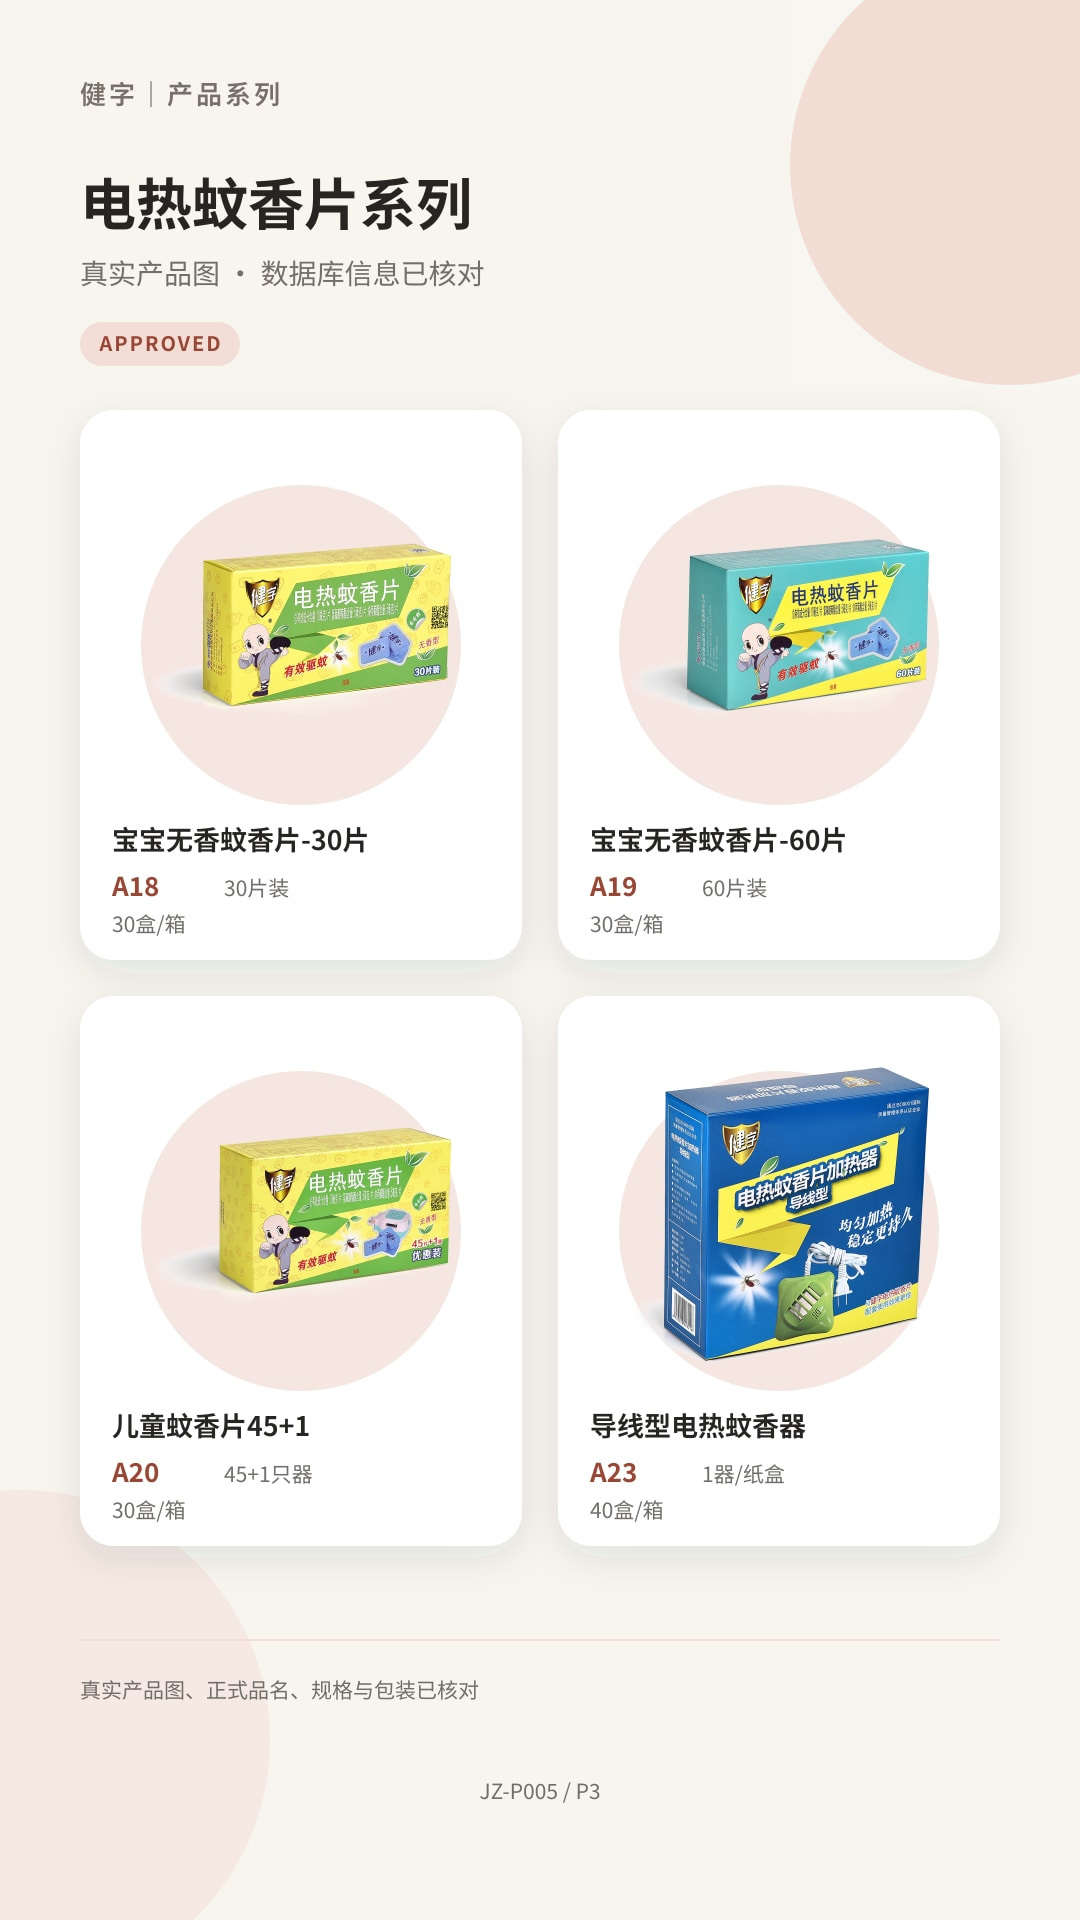
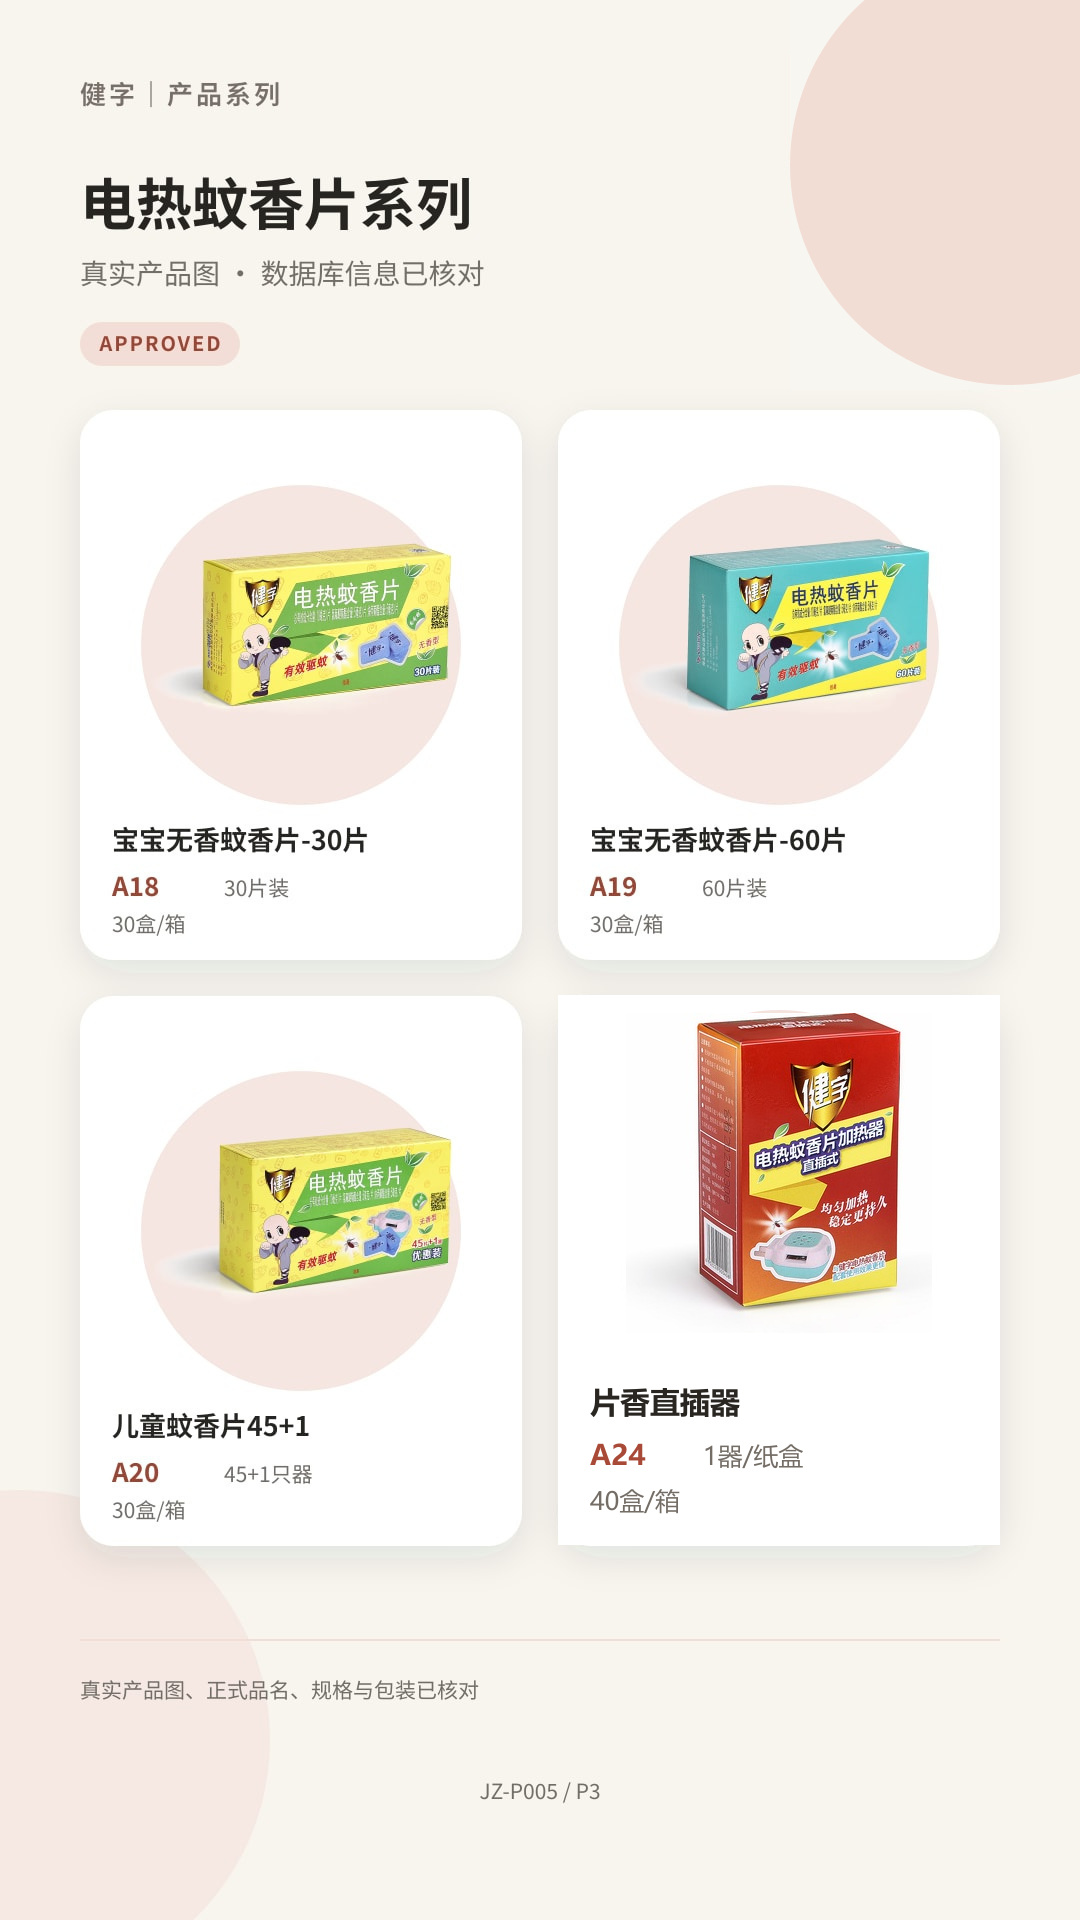
补齐呋虫胺规格并更新A24片香直插器

Changed region(s): [[0.55, 0.5, 0.8861, 0.8125]]

diff --git a/sw.js b/sw.js
@@ -1,1 +1,1 @@
-const C='topic6-v1-order-market-p02';const CORE=['./','./index.html','./style.css','./manifest.webmanifest','./icon-192.png'];self.addEventListener('install',e=>e.waitUntil(caches.open(C).then(c=>c.addAll(CORE)).then(()=>self.skipWaiting())));self.addEventListener('activate',e=>e.waitUntil(caches.keys().then(keys=>Promise.all(keys.filter(k=>k!==C).map(k=>caches.delete(k)))).then(()=>self.clients.claim())));self.addEventListener('fetch',e=>e.respondWith(caches.match(e.request).then(r=>r||fetch(e.request).then(x=>{const y=x.clone();caches.open(C).then(c=>c.put(e.request,y));return x;}))));
+const C='topic6-v1-p8-p11-p12-a24';const CORE=['./','./index.html','./style.css','./manifest.webmanifest','./icon-192.png'];self.addEventListener('install',e=>e.waitUntil(caches.open(C).then(c=>c.addAll(CORE)).then(()=>self.skipWaiting())));self.addEventListener('activate',e=>e.waitUntil(caches.keys().then(keys=>Promise.all(keys.filter(k=>k!==C).map(k=>caches.delete(k)))).then(()=>self.clients.claim())));self.addEventListener('fetch',e=>e.respondWith(caches.match(e.request).then(r=>r||fetch(e.request).then(x=>{const y=x.clone();caches.open(C).then(c=>c.put(e.request,y));return x;}))));

diff --git a/index.html b/index.html
@@ -89,7 +89,7 @@ const links = {
 };
 const productImages={
  'JZ-P001':['015','018','025','022'],'JZ-P001B':['016','017','026'],'JZ-P008':['A80','A77'],'JZ-P002':['063','064'],
- 'JZ-P003':['089','006','007','003'],'JZ-P004':['058','053'],'JZ-P005':['008','004','005','051'],'JZ-P007':['A08','083','088','081'],'JZ-P009':['A79'],
+ 'JZ-P003':['089','006','007','003'],'JZ-P004':['058','053'],'JZ-P005':['008','004','005','A24'],'JZ-P007':['A08','083','088','081'],'JZ-P009':['A79'],
  'YJ-P001':['049','050','059','060'],'YJ-P002':['045'],'YJ-P003':['013','018','020','023'],'YJ-P004':['021'],
  'JGB-P001':['091','024','027'],'JGB-P002':['071','070','068','069'],'HC-P001':['035','067','065'],'HC-P002':['010'],'HC-P003':['030','028','029','031']};
 const productLayout={4:[[7.4,21.3,40.9,28.6],[51.7,21.3,40.9,28.6],[7.4,51.9,40.9,28.6],[51.7,51.9,40.9,28.6]],3:[[7.4,21.3,40.9,28.6],[51.7,21.3,40.9,28.6],[29.5,51.9,40.9,28.6]],2:[[7.4,21.5,85.2,26.8],[7.4,50.5,85.2,26.8]],1:[[7.4,21.5,85.2,55.0]]};
